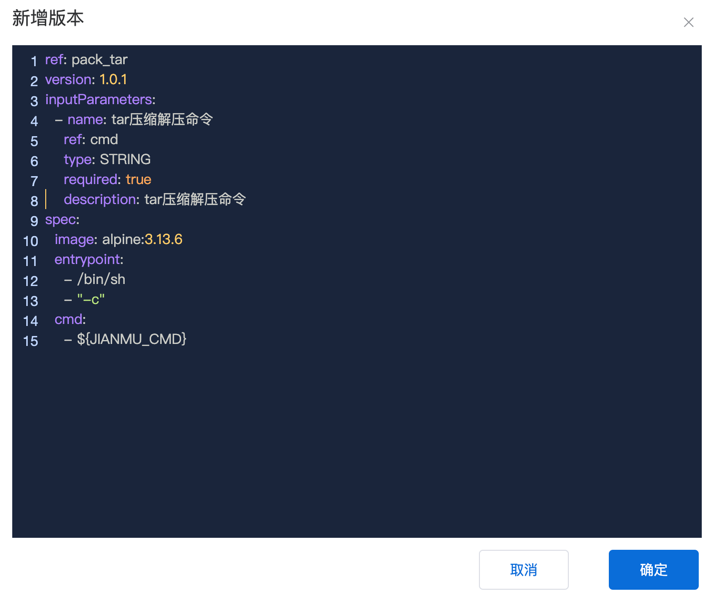
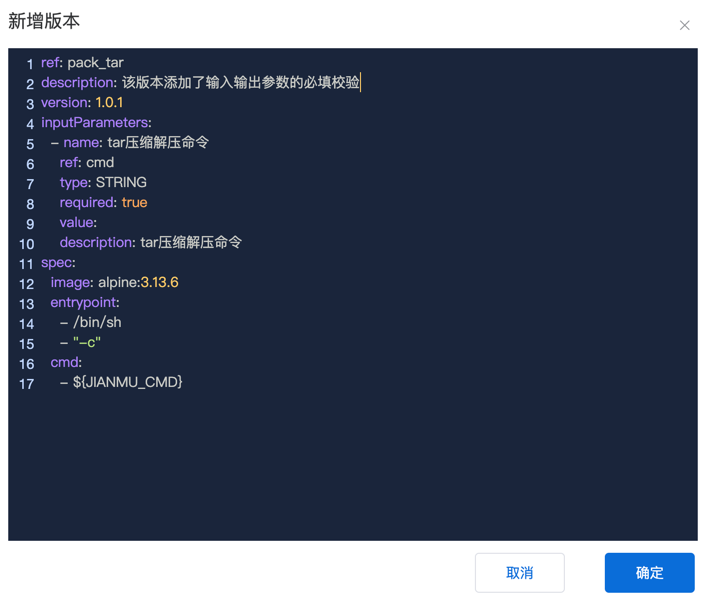
fix: 修改自定义节点

Changed region(s): [[0.0, 0.0, 0.9972, 0.9966], [0.7167, 0.9362, 0.779, 0.9664]]

diff --git a/guide/custom-node.md b/guide/custom-node.md
@@ -43,6 +43,7 @@
 | --------------------------------- | ----------------------------------------------------------------------------------------------------------------------------------------------------------------------------------------------------------------------|
 | ref                               | 归属人或归属组织的唯一标识/节点定义在归属内的唯一标识，必填，如：jianmu/hub_publish。若为官方节点定义，则可省略归属人或归属组织的唯一标识，如：hub_publish                                                                                   |
 | version                           | 节点定义的版本，必填                                                                                                                                                                                                     |
+| description                       | 节点定义的版本描述，非必填                                                                                                                                                                                                |
 | resultFile                        | 输出参数转换成 json 的文件路径，若定义了输出参数 outputParameters，则必填                                                                                                                                                      |
 | inputParameters                   | 输入参数列表                                                                                                                                                                                                            |
 | inputParameters.ref               | 参数唯一标识，会在容器内转译成'JIANMU\_'开头并大写的环境变量。如：hub_url 在容器内可通过 JIANMU_HUB_URL 环境变量调用，必填                                                                                                            |
@@ -62,6 +63,7 @@
 ```
 ref: redis_export
 version: 1.0.1
+description: 该版本添加了输入输出参数的必填校验
 inputParameters:
   - name: 主机地址
     ref: host
